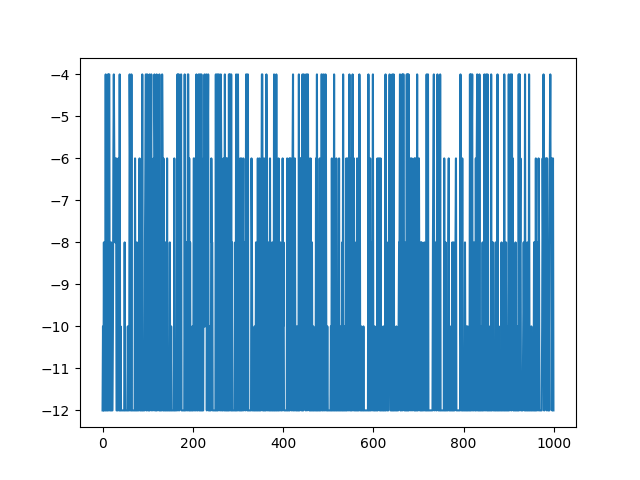
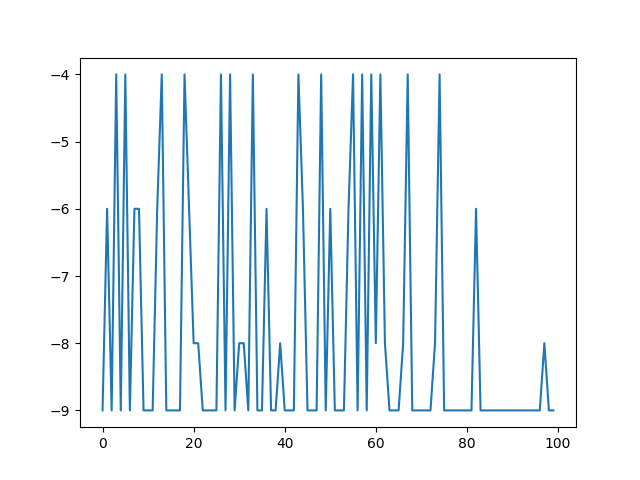
i almost lost everything

diff --git a/train_multi_dimensional.py b/train_multi_dimensional.py
@@ -1,7 +1,6 @@
 from imports import pd, sleep, plt
 from board_multi_dimensional import BoardMultiDimensional
 from discounted_reward import get_discounted_reward
-from constants import COURSE_LENGTH_X, COURSE_LENGTH_Y, GAMMA_DISCOUNTED_REWARD
 from imports import pickle
 
 
@@ -11,7 +10,7 @@ epsilon = 1
 
 alpha = 0.05
 
-epochs = 1_000
+epochs = 5_000
 
 undiscounted_rewards = []
 
@@ -41,5 +40,5 @@ for i, dict in board.state_action_average_reward.items():
 with open('/workspaces/monte-carlo/state_action_average_reward_multi.pkl', 'wb') as f:
     pickle.dump(board.state_action_average_reward, f)
 
-plt.plot([i for i in range(len(undiscounted_rewards))], undiscounted_rewards)
+plt.plot([i for i in range(100)], undiscounted_rewards[4900:5000])
 plt.savefig('plot.png')

diff --git a/constants.py b/constants.py
@@ -2,6 +2,6 @@
 COURSE_LENGTH_X = 3
 COURSE_LENGTH_Y = 3
 
-TRAINING_TRIAL_LIMIT = (COURSE_LENGTH_X + COURSE_LENGTH_Y) * 2
+TRAINING_TRIAL_LIMIT = int((COURSE_LENGTH_X + COURSE_LENGTH_Y) * 1.5)
 
 GAMMA_DISCOUNTED_REWARD = 0.99
